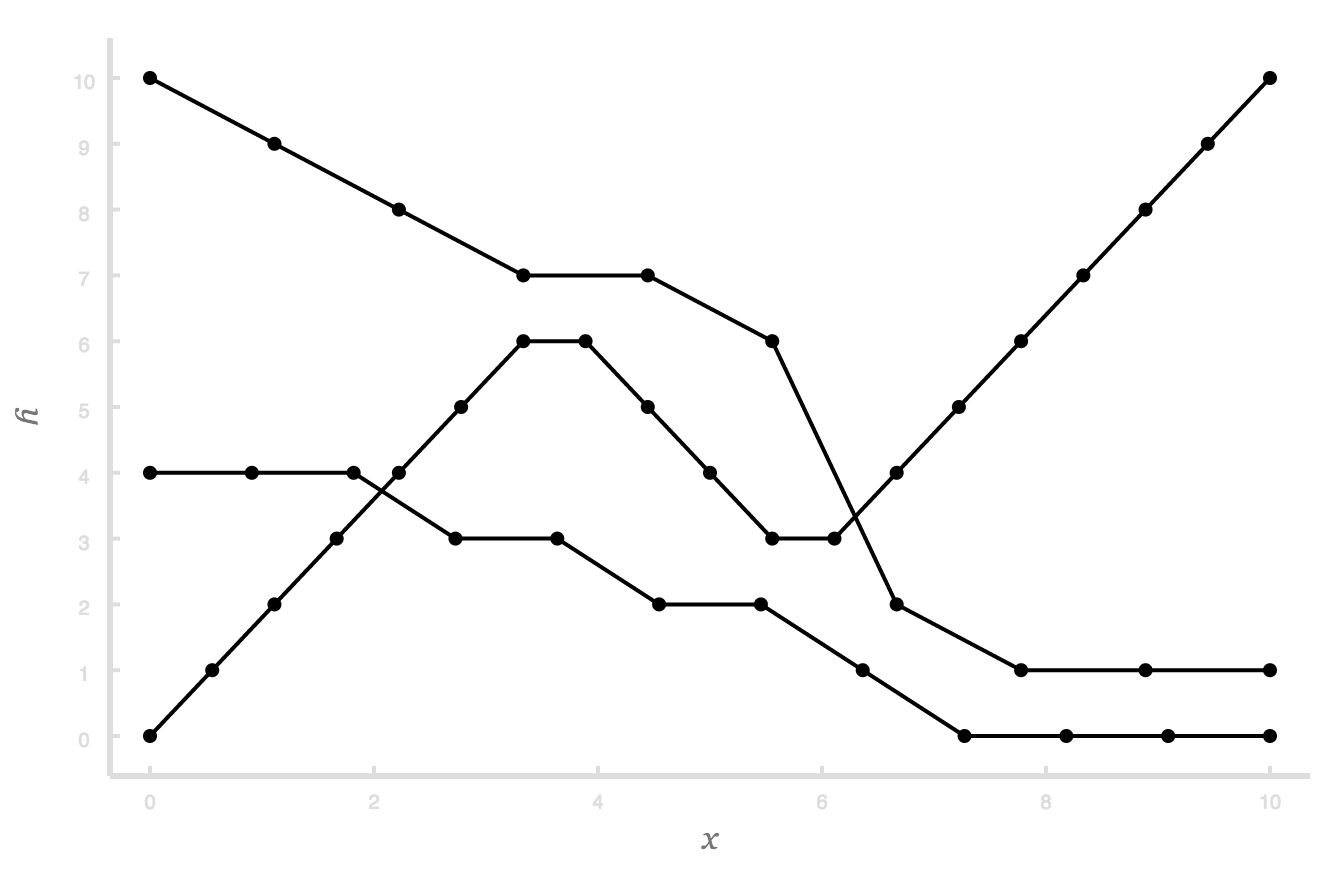
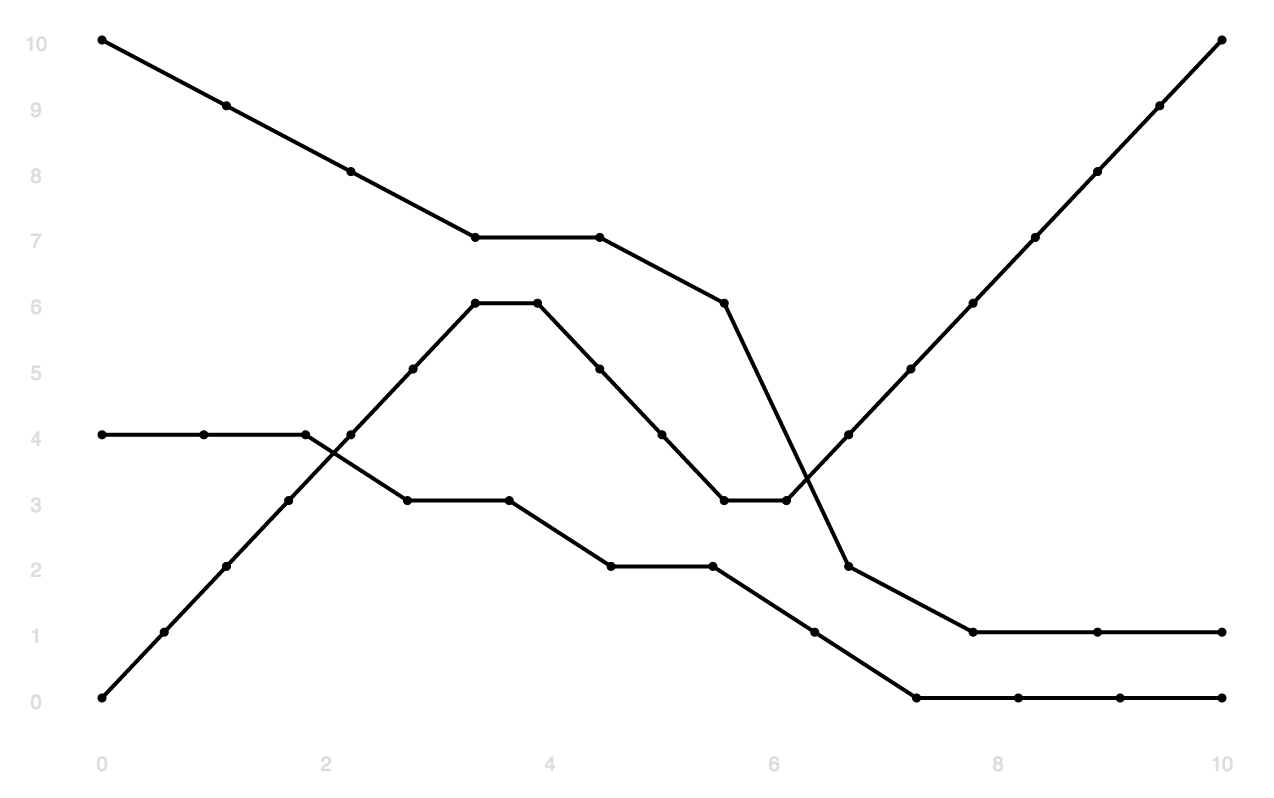
Updating screenshots and readme

diff --git a/README.md b/README.md
@@ -40,3 +40,6 @@ Every feature in Aristochart has a render function whereby the appropriate data 
 
 ### Dot
 ![Dot Theme](/themes/dot/screenshot.png "Dot")
+
+### Flat
+![Flat Theme](/themes/flat/screenshot.png "Flat")
